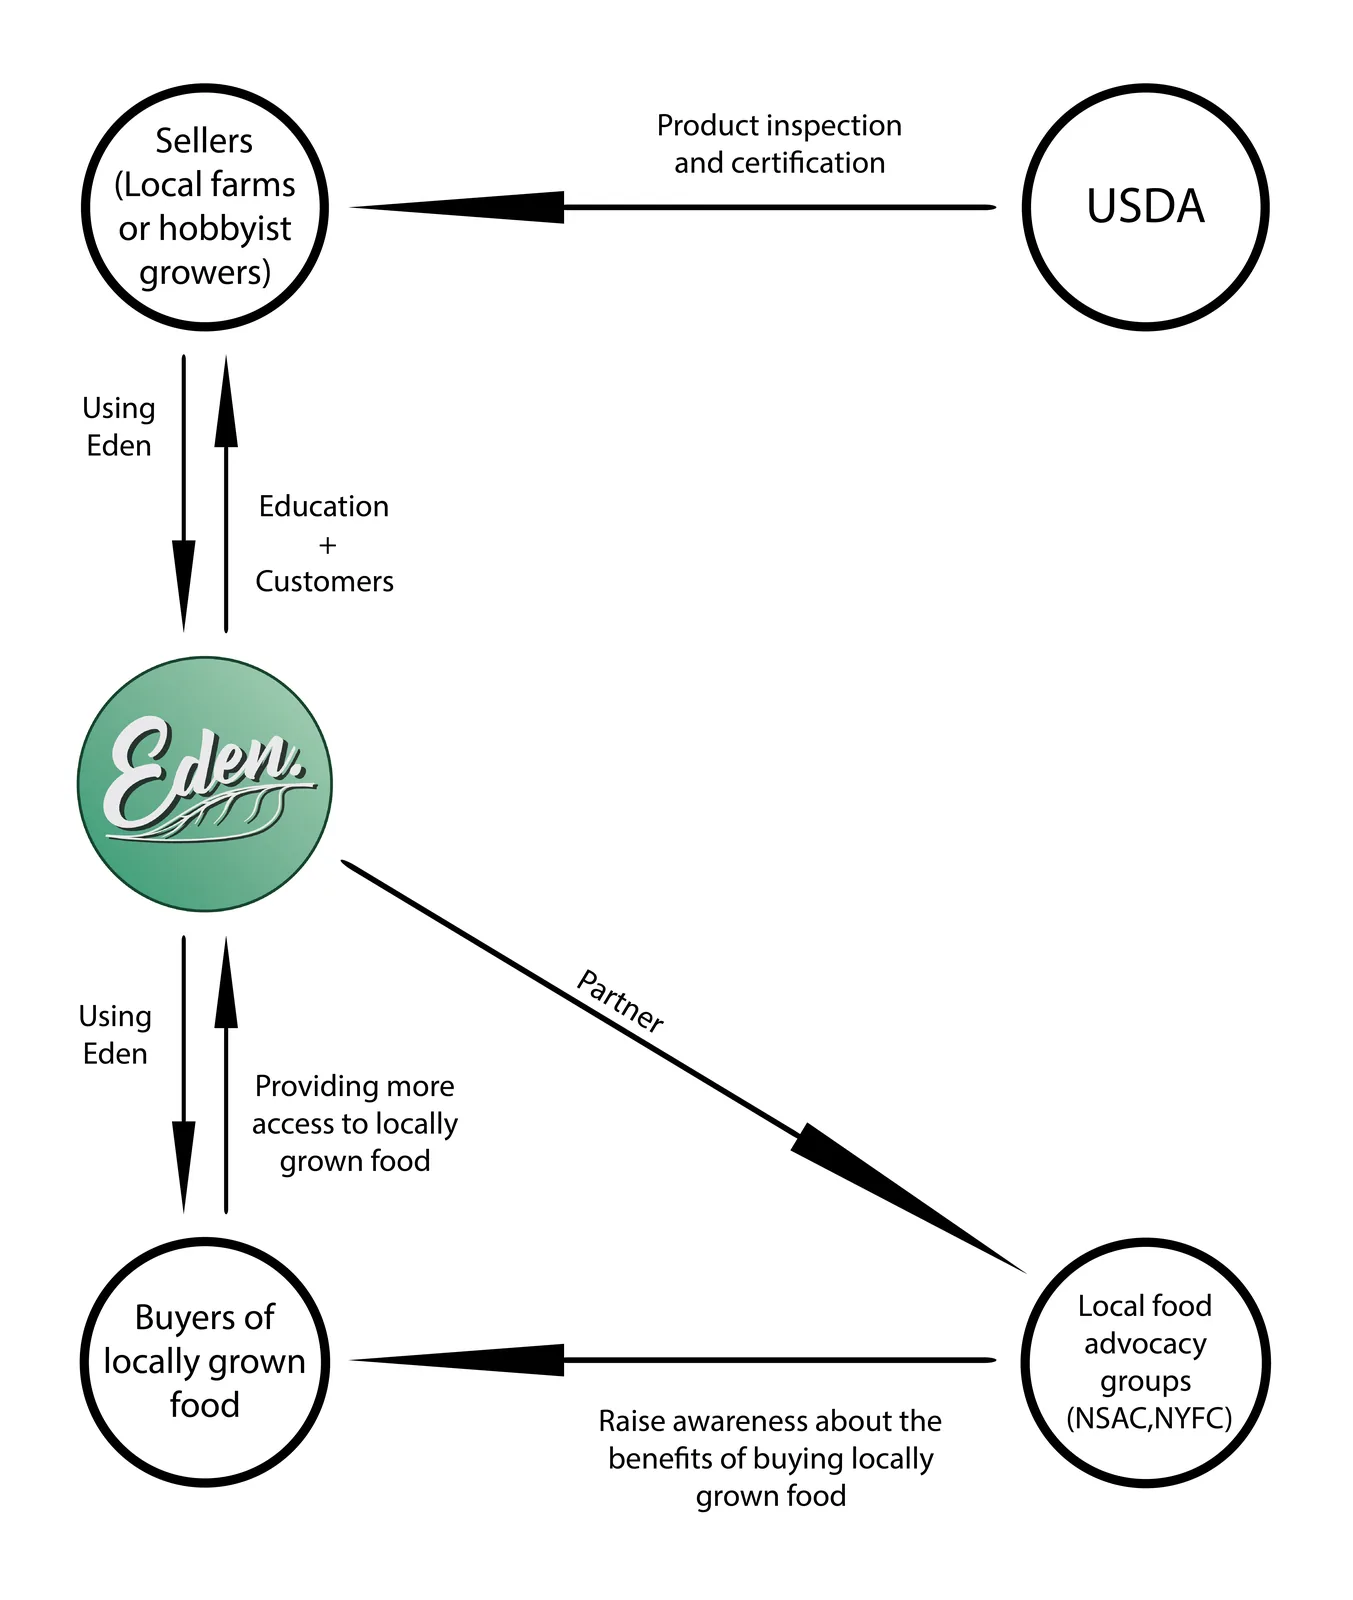
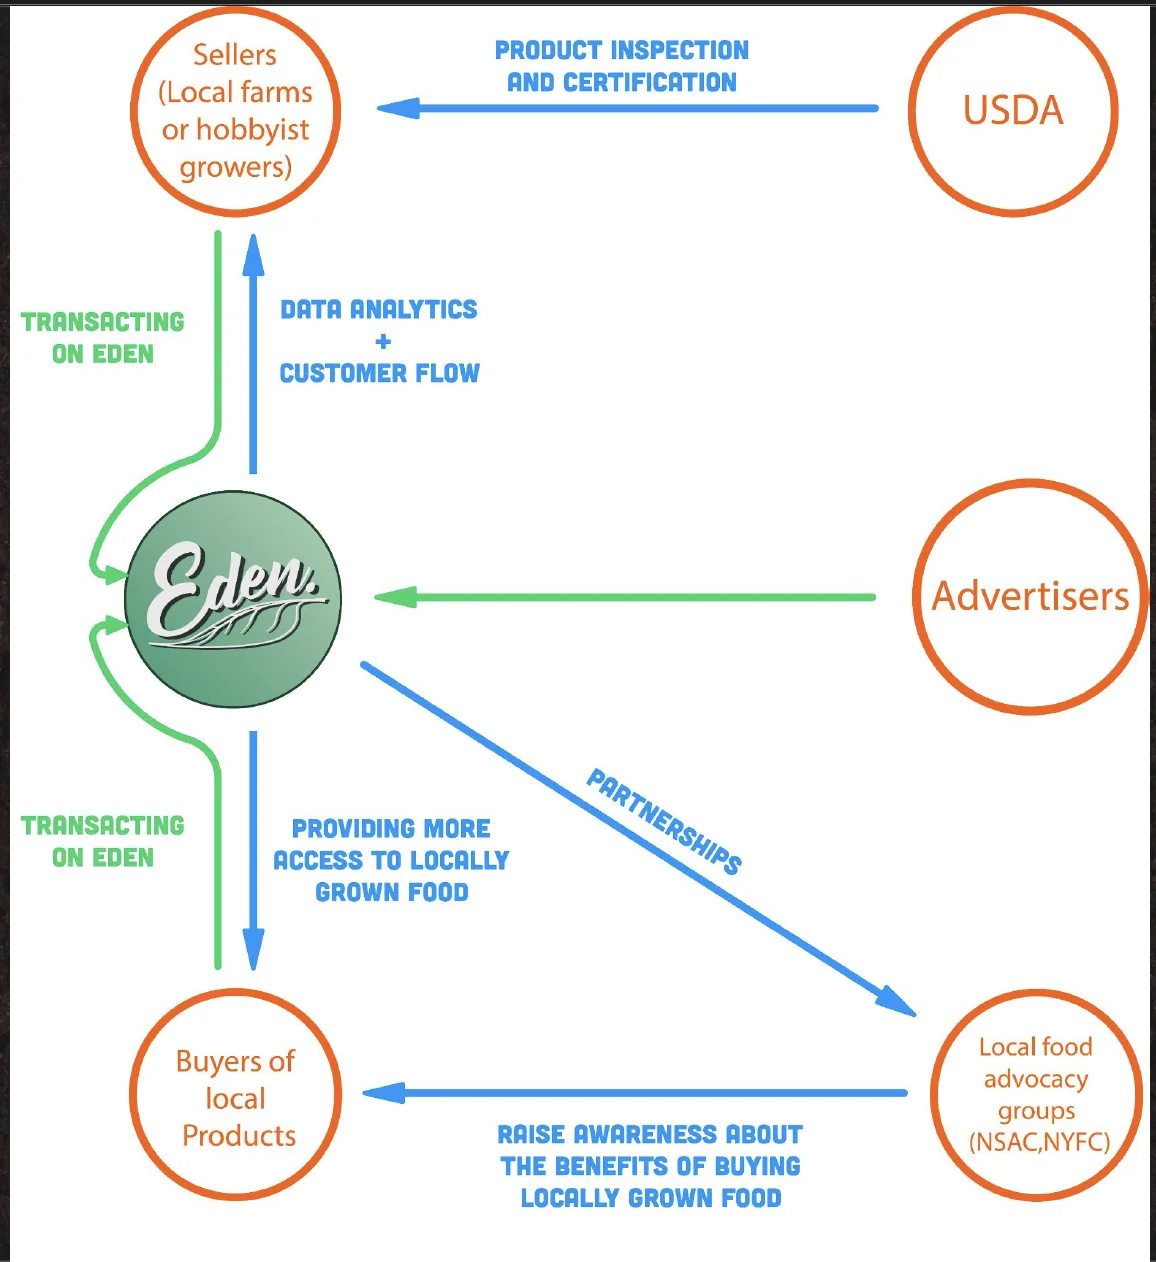
Copia: replace ecosystem map with cleaner color version

Changed region(s): [[0.0, 0.0, 1.0, 1.0], [0.8097, 0.5254, 0.9343, 0.5872]]

diff --git a/case-studies/copia/index.html b/case-studies/copia/index.html
@@ -322,7 +322,7 @@
       <figure class="research-art"><img class="proc-shot" loading="lazy" src="assets/research-valueprop.webp" alt="EDEN Value Proposition Canvas (Strategyzer): buyer and grower jobs, pains, and gains — including 'farmers markets usually only run on Saturday mornings' and 'cannot find a place to buy fresh produce any day of the week.'"><figcaption class="fig-label">Value-proposition canvas · buyer &amp; grower jobs, pains, gains</figcaption></figure>
       <div class="art-pair">
         <figure><img class="proc-shot" loading="lazy" src="assets/research-positioning.webp" alt="Competitive positioning map of local-food marketplaces — Fresh to Home, Cropswap, La Ruche qui dit Oui, Farmbox Direct, What's Good, Market Wagon and others — plotted by overall quality versus geographical footprint."><figcaption class="fig-label">Competitive map · quality vs. geographical footprint</figcaption></figure>
-        <figure><img class="proc-shot" loading="lazy" src="assets/research-ecosystem.webp" alt="Ecosystem map showing EDEN connecting local-farm and hobbyist sellers with buyers, with USDA certification and food-advocacy groups (NSAC, NYFC) as partners."><figcaption class="fig-label">Ecosystem · growers, buyers, USDA, advocacy</figcaption></figure>
+        <figure><img class="proc-shot" loading="lazy" src="assets/research-ecosystem.webp" alt="Ecosystem map with Eden at the center: sellers (local farms and hobbyist growers) and buyers transacting on Eden, USDA product inspection and certification, advertisers, and local-food advocacy groups (NSAC, NYFC) raising awareness and partnering."><figcaption class="fig-label">Ecosystem · growers, buyers, USDA, advertisers, advocacy</figcaption></figure>
       </div>
     </section>
 